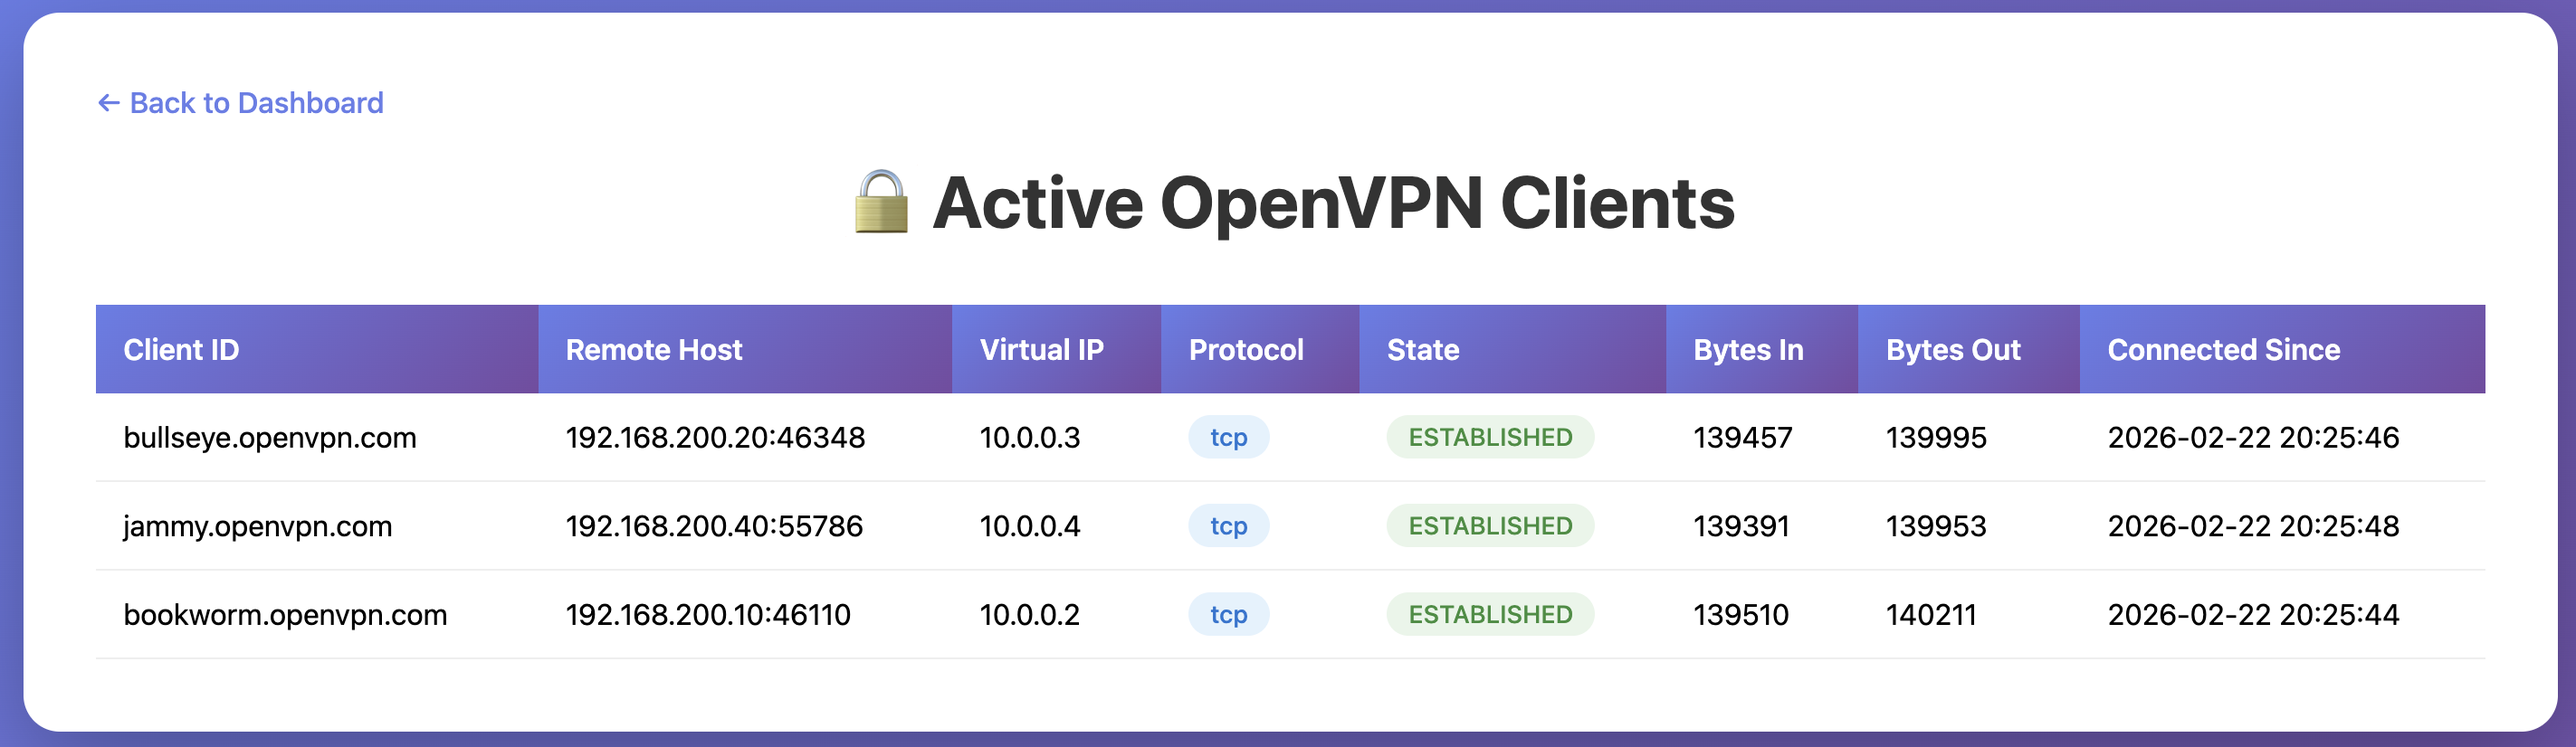
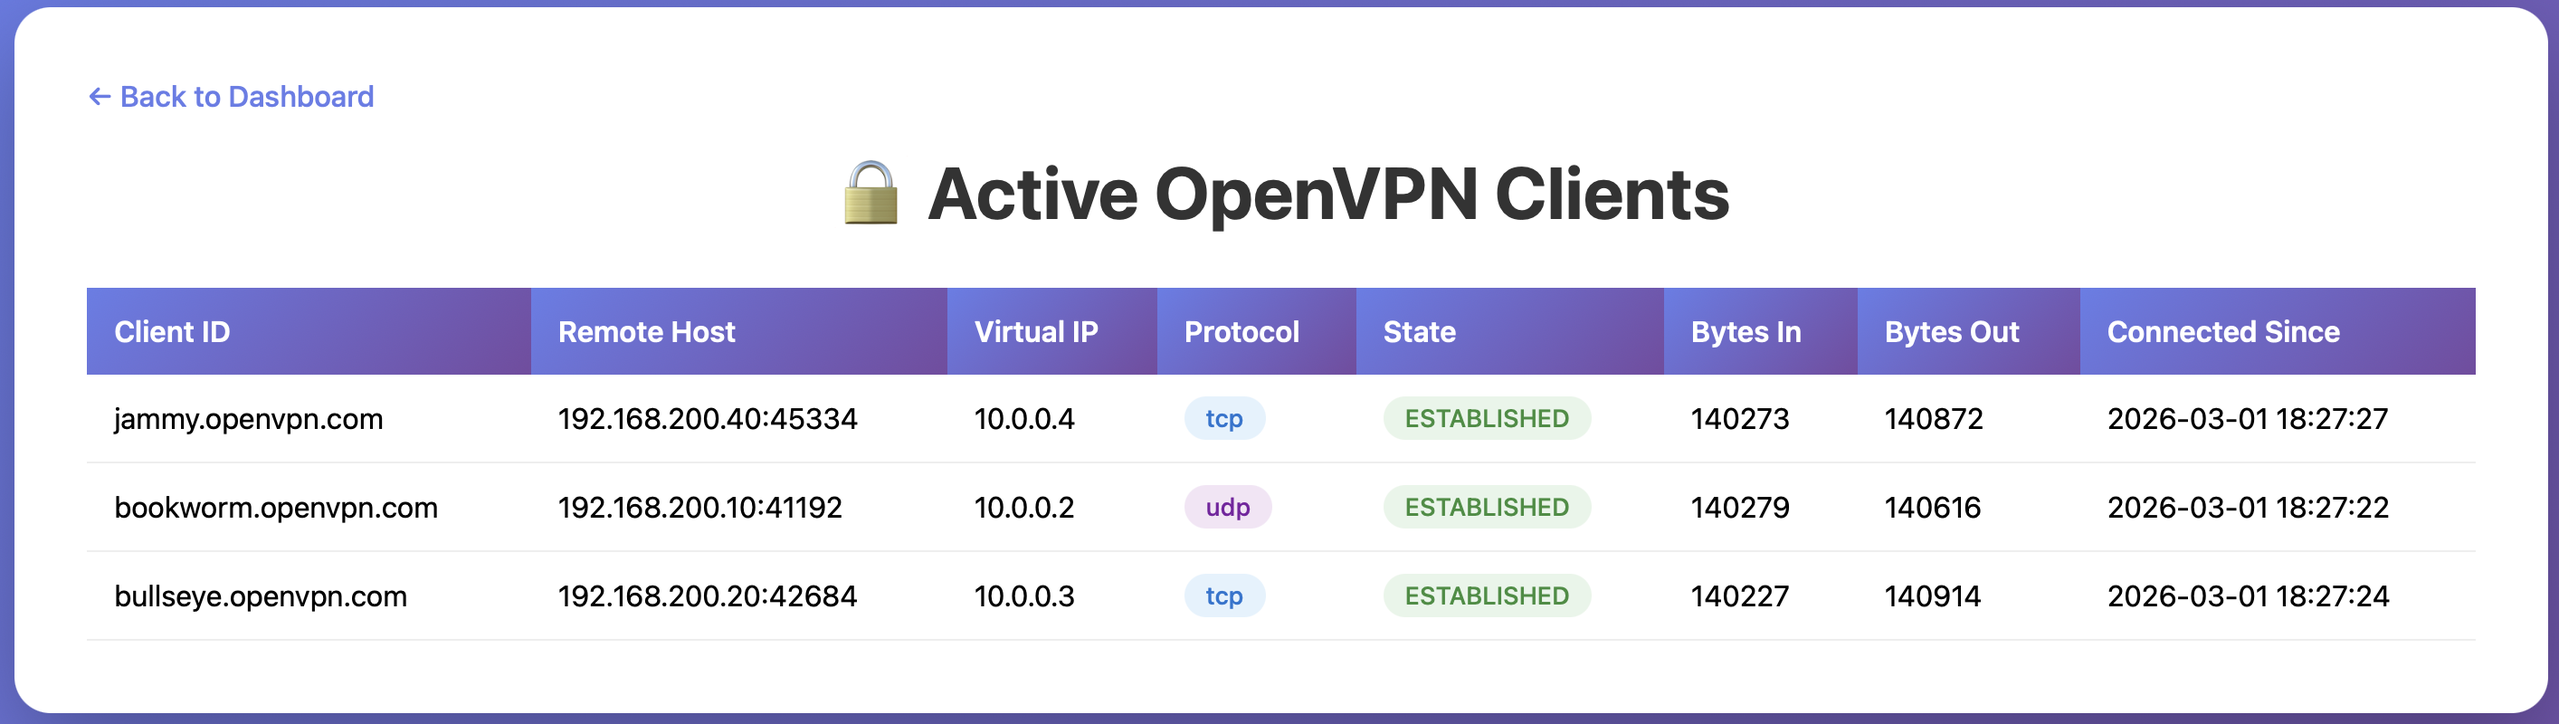
v1.1.0

diff --git a/README.md b/README.md
@@ -31,19 +31,23 @@ To see an example usage and e2e tests, please visit this [openvpn repository.](h
 
 # HELP ovpn_bytes_in_total Total number of bytes received
 # TYPE ovpn_bytes_in_total counter
-ovpn_bytes_in_total{client="bookworm.openvpn.com_tcp"} 3317
+ovpn_bytes_in_total{client="bookworm.openvpn.com_10.0.0.2_udp"} 139559
+ovpn_bytes_in_total{client="bullseye.openvpn.com_10.0.0.3_tcp"} 139507
+ovpn_bytes_in_total{client="jammy.openvpn.com_10.0.0.4_tcp"} 139553
 # HELP ovpn_bytes_out_total Total number of bytes sent
 # TYPE ovpn_bytes_out_total counter
-ovpn_bytes_out_total{client="bookworm.openvpn.com_tcp"} 3616
+ovpn_bytes_out_total{client="bookworm.openvpn.com_10.0.0.2_udp"} 139896
+ovpn_bytes_out_total{client="bullseye.openvpn.com_10.0.0.3_tcp"} 140158
+ovpn_bytes_out_total{client="jammy.openvpn.com_10.0.0.4_tcp"} 140116
 # HELP ovpn_info Software info
 # TYPE ovpn_info counter
-ovpn_info{product="OpenVPN",version="2.6.19"} 1
+ovpn_info{product="OpenVPN",version="2.7.0"} 1
 # HELP ovpn_sessions_total Total number of active sessions
 # TYPE ovpn_sessions_total gauge
-ovpn_sessions_total 1
+ovpn_sessions_total 3
 # HELP probe_success OpenVPN Status
 # TYPE probe_success gauge
-probe_success{version="2.6.19"} 1
+probe_success{version="2.7.0"} 1
 ```
 #### Internal Exporter Metrics
 ```
@@ -51,13 +55,13 @@ probe_success{version="2.6.19"} 1
 
 # HELP go_gc_duration_seconds A summary of the wall-time pause (stop-the-world) duration in garbage collection cycles.
 # TYPE go_gc_duration_seconds summary
-go_gc_duration_seconds{quantile="0"} 0.000274894
-go_gc_duration_seconds{quantile="0.25"} 0.000274894
-go_gc_duration_seconds{quantile="0.5"} 0.000274894
-go_gc_duration_seconds{quantile="0.75"} 0.000274894
-go_gc_duration_seconds{quantile="1"} 0.000274894
-go_gc_duration_seconds_sum 0.000274894
-go_gc_duration_seconds_count 1
+go_gc_duration_seconds{quantile="0"} 7.3968e-05
+go_gc_duration_seconds{quantile="0.25"} 7.3968e-05
+go_gc_duration_seconds{quantile="0.5"} 0.00021333
+go_gc_duration_seconds{quantile="0.75"} 0.000336209
+go_gc_duration_seconds{quantile="1"} 0.000336209
+go_gc_duration_seconds_sum 0.000623507
+go_gc_duration_seconds_count 3
 # HELP go_gc_gogc_percent Heap size target percentage configured by the user, otherwise 100. This value is set by the GOGC environment variable, and the runtime/debug.SetGCPercent function. Sourced from /gc/gogc:percent
 # TYPE go_gc_gogc_percent gauge
 go_gc_gogc_percent 100
@@ -66,49 +70,49 @@ go_gc_gogc_percent 100
 go_gc_gomemlimit_bytes 9.223372036854776e+18
 # HELP go_goroutines Number of goroutines that currently exist.
 # TYPE go_goroutines gauge
-go_goroutines 7
+go_goroutines 10
 # HELP go_info Information about the Go environment.
 # TYPE go_info gauge
-go_info{version="go1.25.5"} 1
+go_info{version="go1.25.7"} 1
 # HELP go_memstats_alloc_bytes Number of bytes allocated in heap and currently in use. Equals to /memory/classes/heap/objects:bytes.
 # TYPE go_memstats_alloc_bytes gauge
-go_memstats_alloc_bytes 2.269552e+06
+go_memstats_alloc_bytes 1.986984e+06
 # HELP go_memstats_alloc_bytes_total Total number of bytes allocated in heap until now, even if released already. Equals to /gc/heap/allocs:bytes.
 # TYPE go_memstats_alloc_bytes_total counter
-go_memstats_alloc_bytes_total 3.201328e+06
+go_memstats_alloc_bytes_total 7.008048e+06
 # HELP go_memstats_buck_hash_sys_bytes Number of bytes used by the profiling bucket hash table. Equals to /memory/classes/profiling/buckets:bytes.
 # TYPE go_memstats_buck_hash_sys_bytes gauge
 go_memstats_buck_hash_sys_bytes 1.444008e+06
 # HELP go_memstats_frees_total Total number of heap objects frees. Equals to /gc/heap/frees:objects + /gc/heap/tiny/allocs:objects.
 # TYPE go_memstats_frees_total counter
-go_memstats_frees_total 6874
+go_memstats_frees_total 34270
 # HELP go_memstats_gc_sys_bytes Number of bytes used for garbage collection system metadata. Equals to /memory/classes/metadata/other:bytes.
 # TYPE go_memstats_gc_sys_bytes gauge
-go_memstats_gc_sys_bytes 2.107152e+06
+go_memstats_gc_sys_bytes 2.685712e+06
 # HELP go_memstats_heap_alloc_bytes Number of heap bytes allocated and currently in use, same as go_memstats_alloc_bytes. Equals to /memory/classes/heap/objects:bytes.
 # TYPE go_memstats_heap_alloc_bytes gauge
-go_memstats_heap_alloc_bytes 2.269552e+06
+go_memstats_heap_alloc_bytes 1.986984e+06
 # HELP go_memstats_heap_idle_bytes Number of heap bytes waiting to be used. Equals to /memory/classes/heap/released:bytes + /memory/classes/heap/free:bytes.
 # TYPE go_memstats_heap_idle_bytes gauge
-go_memstats_heap_idle_bytes 4.456448e+06
+go_memstats_heap_idle_bytes 4.677632e+06
 # HELP go_memstats_heap_inuse_bytes Number of heap bytes that are in use. Equals to /memory/classes/heap/objects:bytes + /memory/classes/heap/unused:bytes
 # TYPE go_memstats_heap_inuse_bytes gauge
-go_memstats_heap_inuse_bytes 3.538944e+06
+go_memstats_heap_inuse_bytes 3.31776e+06
 # HELP go_memstats_heap_objects Number of currently allocated objects. Equals to /gc/heap/objects:objects.
 # TYPE go_memstats_heap_objects gauge
-go_memstats_heap_objects 2724
+go_memstats_heap_objects 5723
 # HELP go_memstats_heap_released_bytes Number of heap bytes released to OS. Equals to /memory/classes/heap/released:bytes.
 # TYPE go_memstats_heap_released_bytes gauge
-go_memstats_heap_released_bytes 3.555328e+06
+go_memstats_heap_released_bytes 4.677632e+06
 # HELP go_memstats_heap_sys_bytes Number of heap bytes obtained from system. Equals to /memory/classes/heap/objects:bytes + /memory/classes/heap/unused:bytes + /memory/classes/heap/released:bytes + /memory/classes/heap/free:bytes.
 # TYPE go_memstats_heap_sys_bytes gauge
 go_memstats_heap_sys_bytes 7.995392e+06
 # HELP go_memstats_last_gc_time_seconds Number of seconds since 1970 of last garbage collection.
 # TYPE go_memstats_last_gc_time_seconds gauge
-go_memstats_last_gc_time_seconds 1.762202458882669e+09
+go_memstats_last_gc_time_seconds 1.772390181700876e+09
 # HELP go_memstats_mallocs_total Total number of heap objects allocated, both live and gc-ed. Semantically a counter version for go_memstats_heap_objects gauge. Equals to /gc/heap/allocs:objects + /gc/heap/tiny/allocs:objects.
 # TYPE go_memstats_mallocs_total counter
-go_memstats_mallocs_total 9598
+go_memstats_mallocs_total 39993
 # HELP go_memstats_mcache_inuse_bytes Number of bytes in use by mcache structures. Equals to /memory/classes/metadata/mcache/inuse:bytes.
 # TYPE go_memstats_mcache_inuse_bytes gauge
 go_memstats_mcache_inuse_bytes 2416
@@ -117,16 +121,16 @@ go_memstats_mcache_inuse_bytes 2416
 go_memstats_mcache_sys_bytes 15704
 # HELP go_memstats_mspan_inuse_bytes Number of bytes in use by mspan structures. Equals to /memory/classes/metadata/mspan/inuse:bytes.
 # TYPE go_memstats_mspan_inuse_bytes gauge
-go_memstats_mspan_inuse_bytes 53920
+go_memstats_mspan_inuse_bytes 50400
 # HELP go_memstats_mspan_sys_bytes Number of bytes used for mspan structures obtained from system. Equals to /memory/classes/metadata/mspan/inuse:bytes + /memory/classes/metadata/mspan/free:bytes.
 # TYPE go_memstats_mspan_sys_bytes gauge
 go_memstats_mspan_sys_bytes 65280
 # HELP go_memstats_next_gc_bytes Number of heap bytes when next garbage collection will take place. Equals to /gc/heap/goal:bytes.
 # TYPE go_memstats_next_gc_bytes gauge
-go_memstats_next_gc_bytes 4.396978e+06
+go_memstats_next_gc_bytes 4.194304e+06
 # HELP go_memstats_other_sys_bytes Number of bytes used for other system allocations. Equals to /memory/classes/other:bytes.
 # TYPE go_memstats_other_sys_bytes gauge
-go_memstats_other_sys_bytes 584952
+go_memstats_other_sys_bytes 596216
 # HELP go_memstats_stack_inuse_bytes Number of bytes obtained from system for stack allocator in non-CGO environments. Equals to /memory/classes/heap/stacks:bytes.
 # TYPE go_memstats_stack_inuse_bytes gauge
 go_memstats_stack_inuse_bytes 393216
@@ -135,52 +139,37 @@ go_memstats_stack_inuse_bytes 393216
 go_memstats_stack_sys_bytes 393216
 # HELP go_memstats_sys_bytes Number of bytes obtained from system. Equals to /memory/classes/total:byte.
 # TYPE go_memstats_sys_bytes gauge
-go_memstats_sys_bytes 1.2605704e+07
+go_memstats_sys_bytes 1.3195528e+07
 # HELP go_sched_gomaxprocs_threads The current runtime.GOMAXPROCS setting, or the number of operating system threads that can execute user-level Go code simultaneously. Sourced from /sched/gomaxprocs:threads
 # TYPE go_sched_gomaxprocs_threads gauge
 go_sched_gomaxprocs_threads 2
 # HELP go_threads Number of OS threads created.
 # TYPE go_threads gauge
 go_threads 4
-# HELP ovpn_bytes_in_total Total number of bytes received
-# TYPE ovpn_bytes_in_total counter
-ovpn_bytes_in_total{client="bookworm.openvpn.com_tcp"} 2837
-# HELP ovpn_bytes_out_total Total number of bytes sent
-# TYPE ovpn_bytes_out_total counter
-ovpn_bytes_out_total{client="bookworm.openvpn.com_tcp"} 3112
-# HELP ovpn_info Software info
-# TYPE ovpn_info counter
-ovpn_info{product="OpenVPN",version="2.6.19"} 1
-# HELP ovpn_sessions_total Total number of active sessions
-# TYPE ovpn_sessions_total gauge
-ovpn_sessions_total 1
-# HELP probe_success OpenVPN Status
-# TYPE probe_success gauge
-probe_success{version="2.6.19"} 1
 # HELP process_cpu_seconds_total Total user and system CPU time spent in seconds.
 # TYPE process_cpu_seconds_total counter
-process_cpu_seconds_total 0.02
+process_cpu_seconds_total 0.09
 # HELP process_max_fds Maximum number of open file descriptors.
 # TYPE process_max_fds gauge
-process_max_fds 1.048576e+06
+process_max_fds 1.073741816e+09
 # HELP process_network_receive_bytes_total Number of bytes received by the process over the network.
 # TYPE process_network_receive_bytes_total counter
-process_network_receive_bytes_total 18478
+process_network_receive_bytes_total 1.264247e+06
 # HELP process_network_transmit_bytes_total Number of bytes sent by the process over the network.
 # TYPE process_network_transmit_bytes_total counter
-process_network_transmit_bytes_total 28386
+process_network_transmit_bytes_total 1.290248e+06
 # HELP process_open_fds Number of open file descriptors.
 # TYPE process_open_fds gauge
 process_open_fds 10
 # HELP process_resident_memory_bytes Resident memory size in bytes.
 # TYPE process_resident_memory_bytes gauge
-process_resident_memory_bytes 1.4336e+07
+process_resident_memory_bytes 1.5265792e+07
 # HELP process_start_time_seconds Start time of the process since unix epoch in seconds.
 # TYPE process_start_time_seconds gauge
-process_start_time_seconds 1.76220227316e+09
+process_start_time_seconds 1.77238964102e+09
 # HELP process_virtual_memory_bytes Virtual memory size in bytes.
 # TYPE process_virtual_memory_bytes gauge
-process_virtual_memory_bytes 1.264467968e+09
+process_virtual_memory_bytes 1.265078272e+09
 # HELP process_virtual_memory_max_bytes Maximum amount of virtual memory available in bytes.
 # TYPE process_virtual_memory_max_bytes gauge
 process_virtual_memory_max_bytes 1.8446744073709552e+19
@@ -189,7 +178,7 @@ process_virtual_memory_max_bytes 1.8446744073709552e+19
 promhttp_metric_handler_requests_in_flight 1
 # HELP promhttp_metric_handler_requests_total Total number of scrapes by HTTP status code.
 # TYPE promhttp_metric_handler_requests_total counter
-promhttp_metric_handler_requests_total{code="200"} 1
+promhttp_metric_handler_requests_total{code="200"} 0
 promhttp_metric_handler_requests_total{code="500"} 0
 promhttp_metric_handler_requests_total{code="503"} 0
 ```
@@ -197,7 +186,7 @@ promhttp_metric_handler_requests_total{code="503"} 0
 ```
 # http://<OpenVPN server IP>:9234/sessions_local
 
-[{"server":"openvpn-server","protocol":"tcp","p1uniqueid":"0","p2uniqueid":"0","state":"ESTABLISHED","remotehost":"78.99.236.15","remoteport":"53993","remoteid":"bookworm.openvpn.com","remotets":"10.0.0.2","established":"2025-11-03 20:40:03","bytesin":"3557","bytesout":"3868","packetsin":"0","packetsout":"0"}]
+[{"server":"openvpn-server","protocol":"tcp","p1uniqueid":"2","p2uniqueid":"2","state":"ESTABLISHED","remotehost":"192.168.200.40","remoteport":"45334","remoteid":"jammy.openvpn.com","remotets":"10.0.0.4","established":"2026-03-01 18:27:27","bytesin":"140033","bytesout":"140620","packetsin":"0","packetsout":"0"},{"server":"openvpn-server","protocol":"udp","p1uniqueid":"0","p2uniqueid":"0","state":"ESTABLISHED","remotehost":"192.168.200.10","remoteport":"41192","remoteid":"bookworm.openvpn.com","remotets":"10.0.0.2","established":"2026-03-01 18:27:22","bytesin":"140039","bytesout":"140376","packetsin":"0","packetsout":"0"},{"server":"openvpn-server","protocol":"tcp","p1uniqueid":"1","p2uniqueid":"1","state":"ESTABLISHED","remotehost":"192.168.200.20","remoteport":"42684","remoteid":"bullseye.openvpn.com","remotets":"10.0.0.3","established":"2026-03-01 18:27:24","bytesin":"139987","bytesout":"140662","packetsin":"0","packetsout":"0"}]
 ```
 
 ## Features
